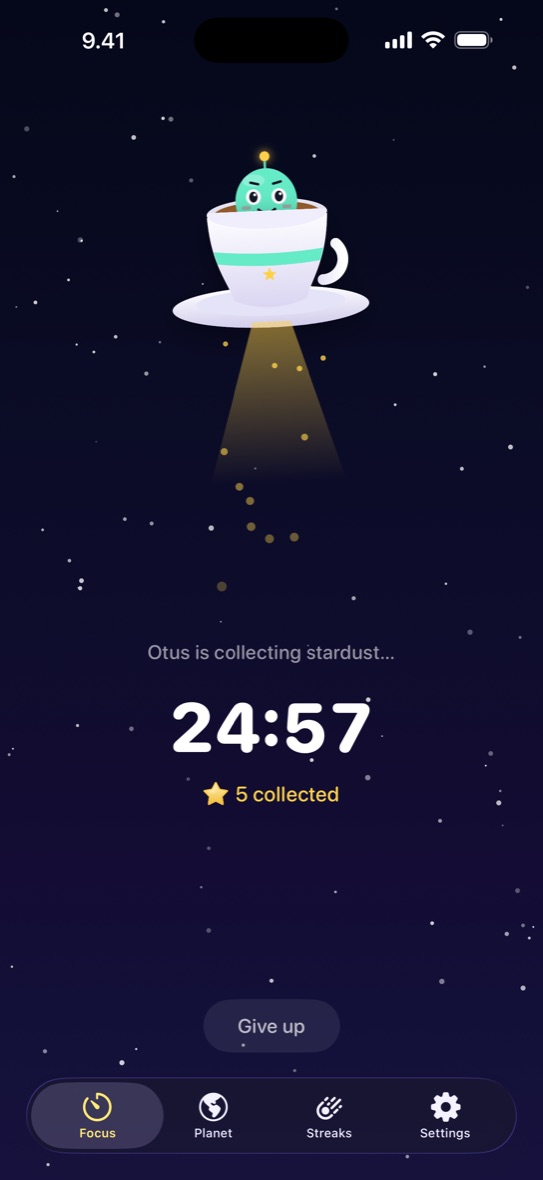
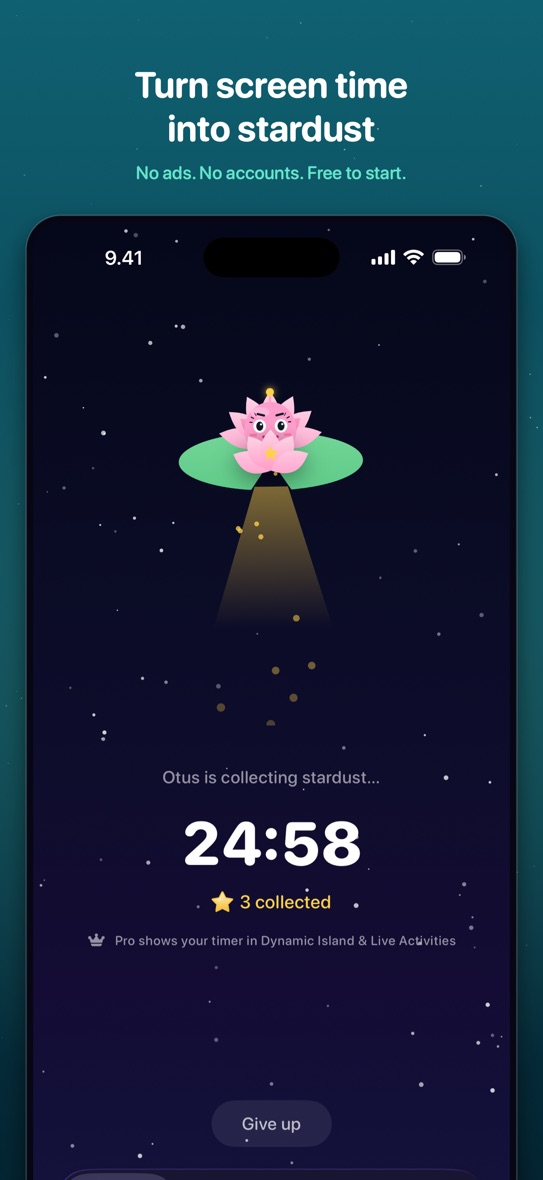
OTUS: close the screenshot strip with the Water Lily
Matches the App Store set, which now ends on the Water Lily rather than
the Tea Saucer. The alt text moves with it — it named the ride, so
leaving it would have described the wrong picture to anyone who cannot
see it.

Other Tea Saucer mentions on the site stay: it is still a Pro perk, just
no longer the one in the photo.

diff --git a/_apps/otus/index.md b/_apps/otus/index.md
@@ -41,7 +41,7 @@ screenshots:
   - src: /assets/apps/otus/shot-07.jpg
     alt: "The cosmic shop"
   - src: /assets/apps/otus/shot-08.jpg
-    alt: "Otus riding the tea saucer"
+    alt: "Otus riding the water lily"
 
 features:
   - icon: "🛸"
